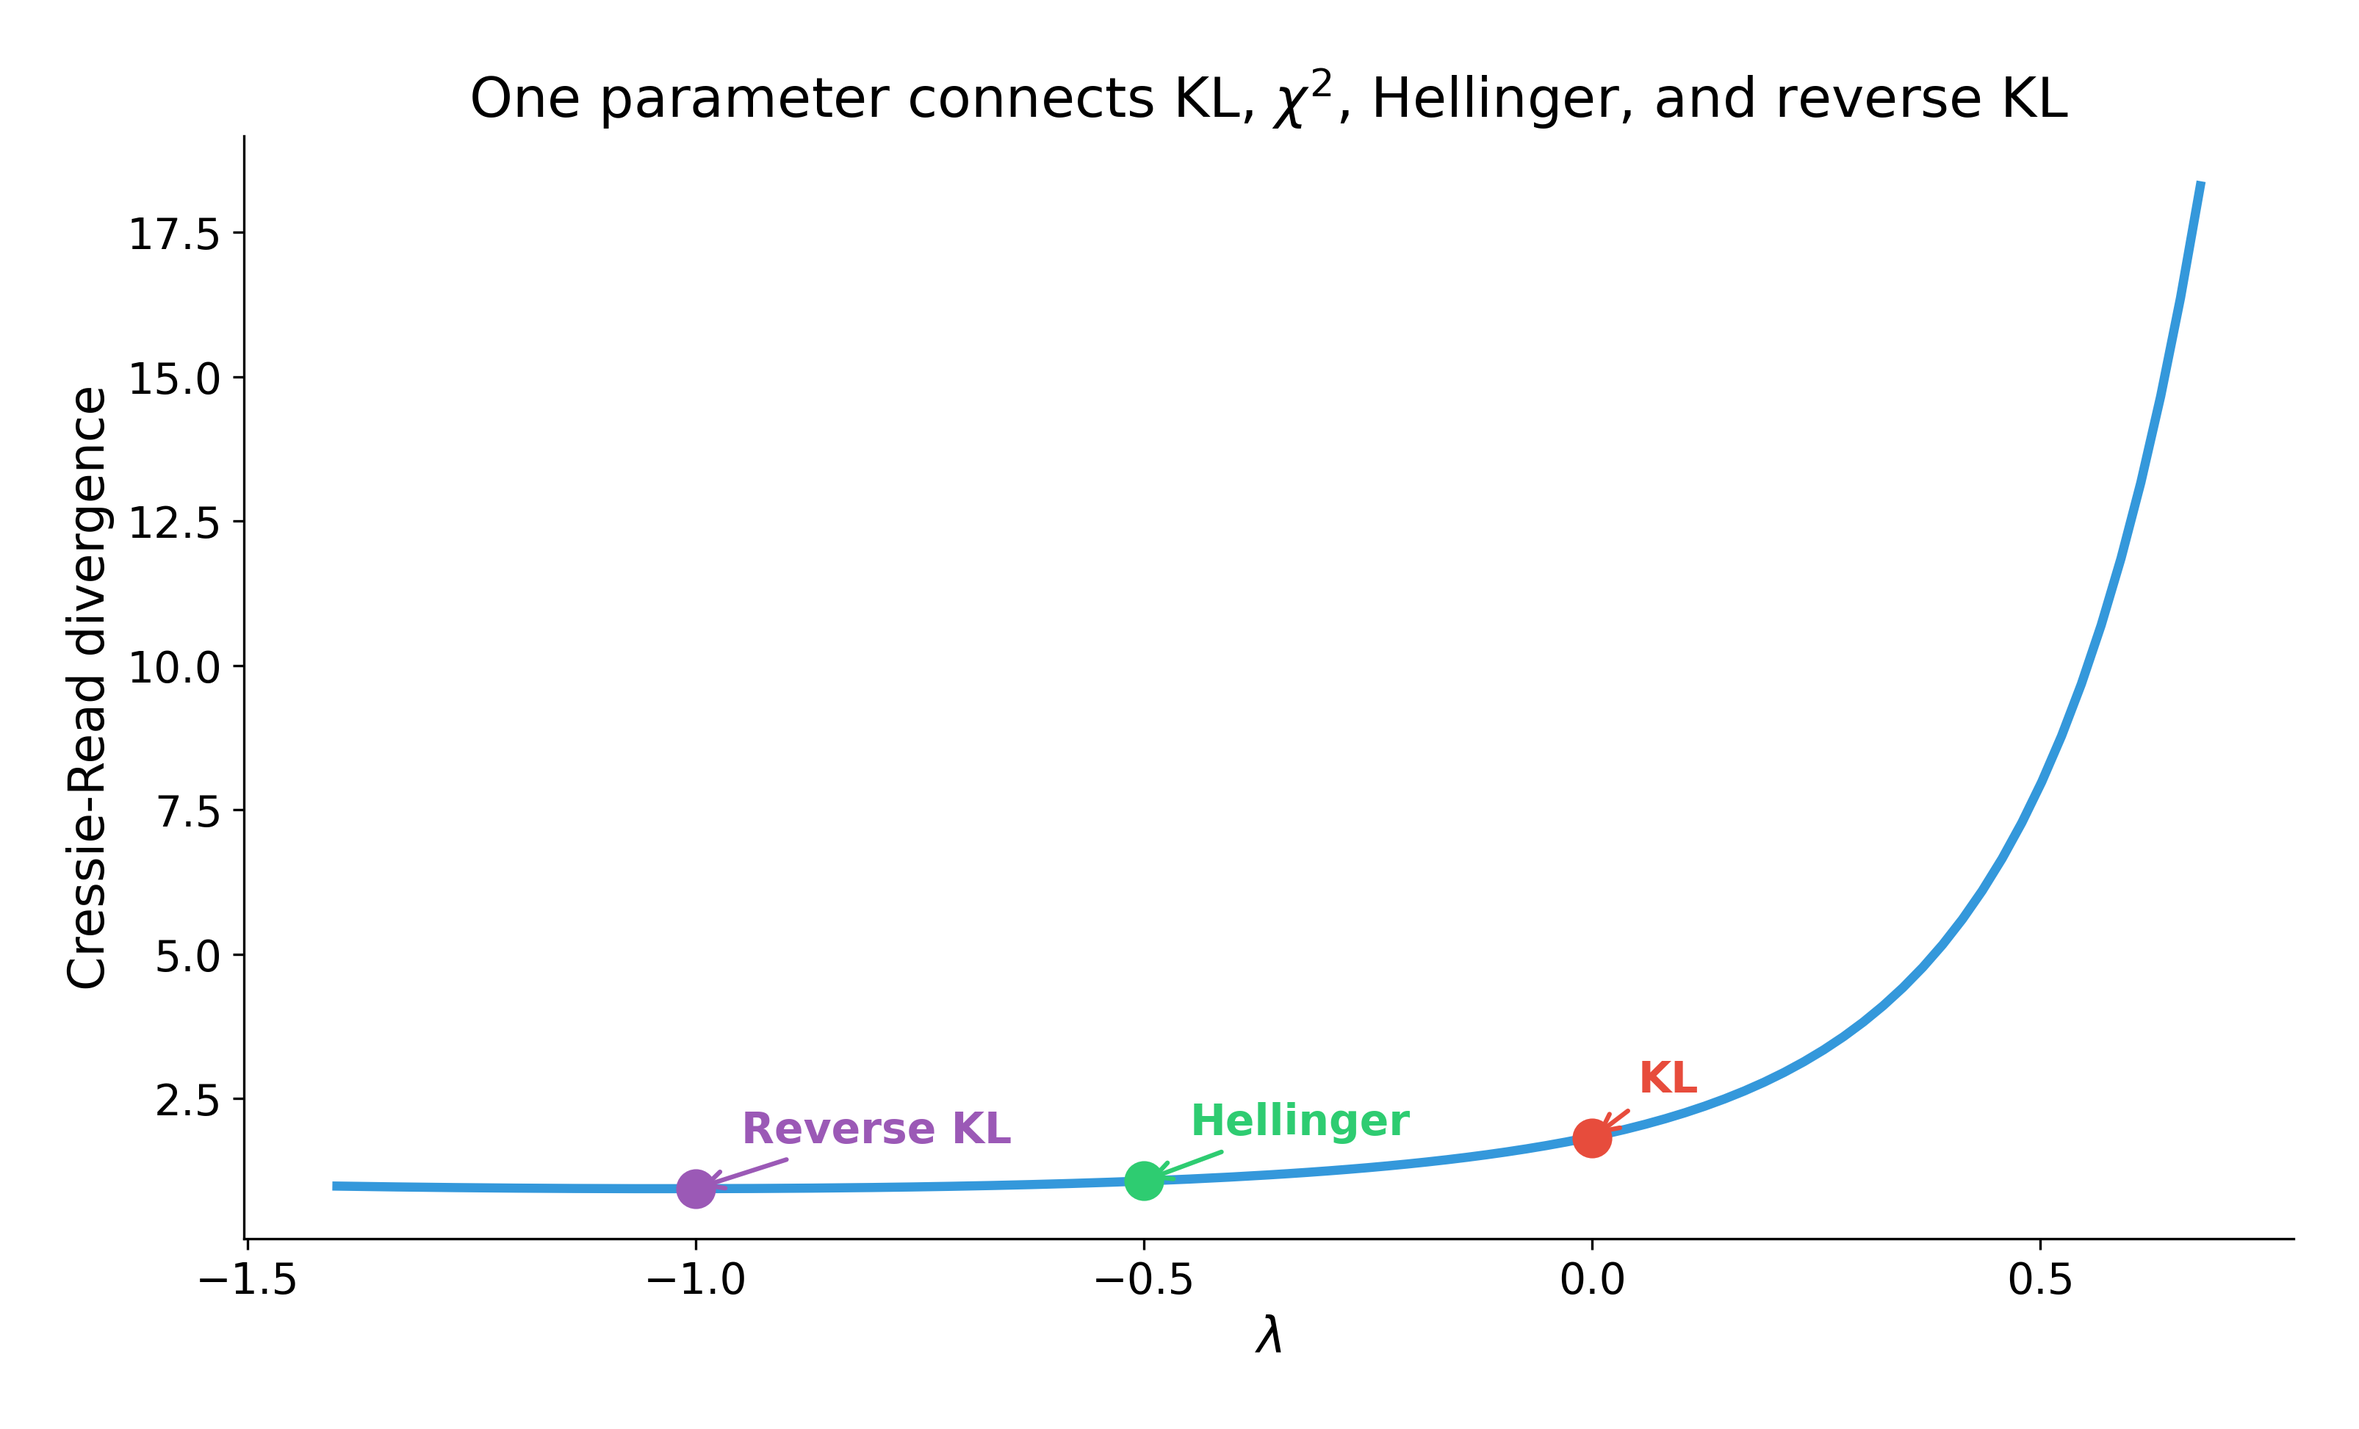
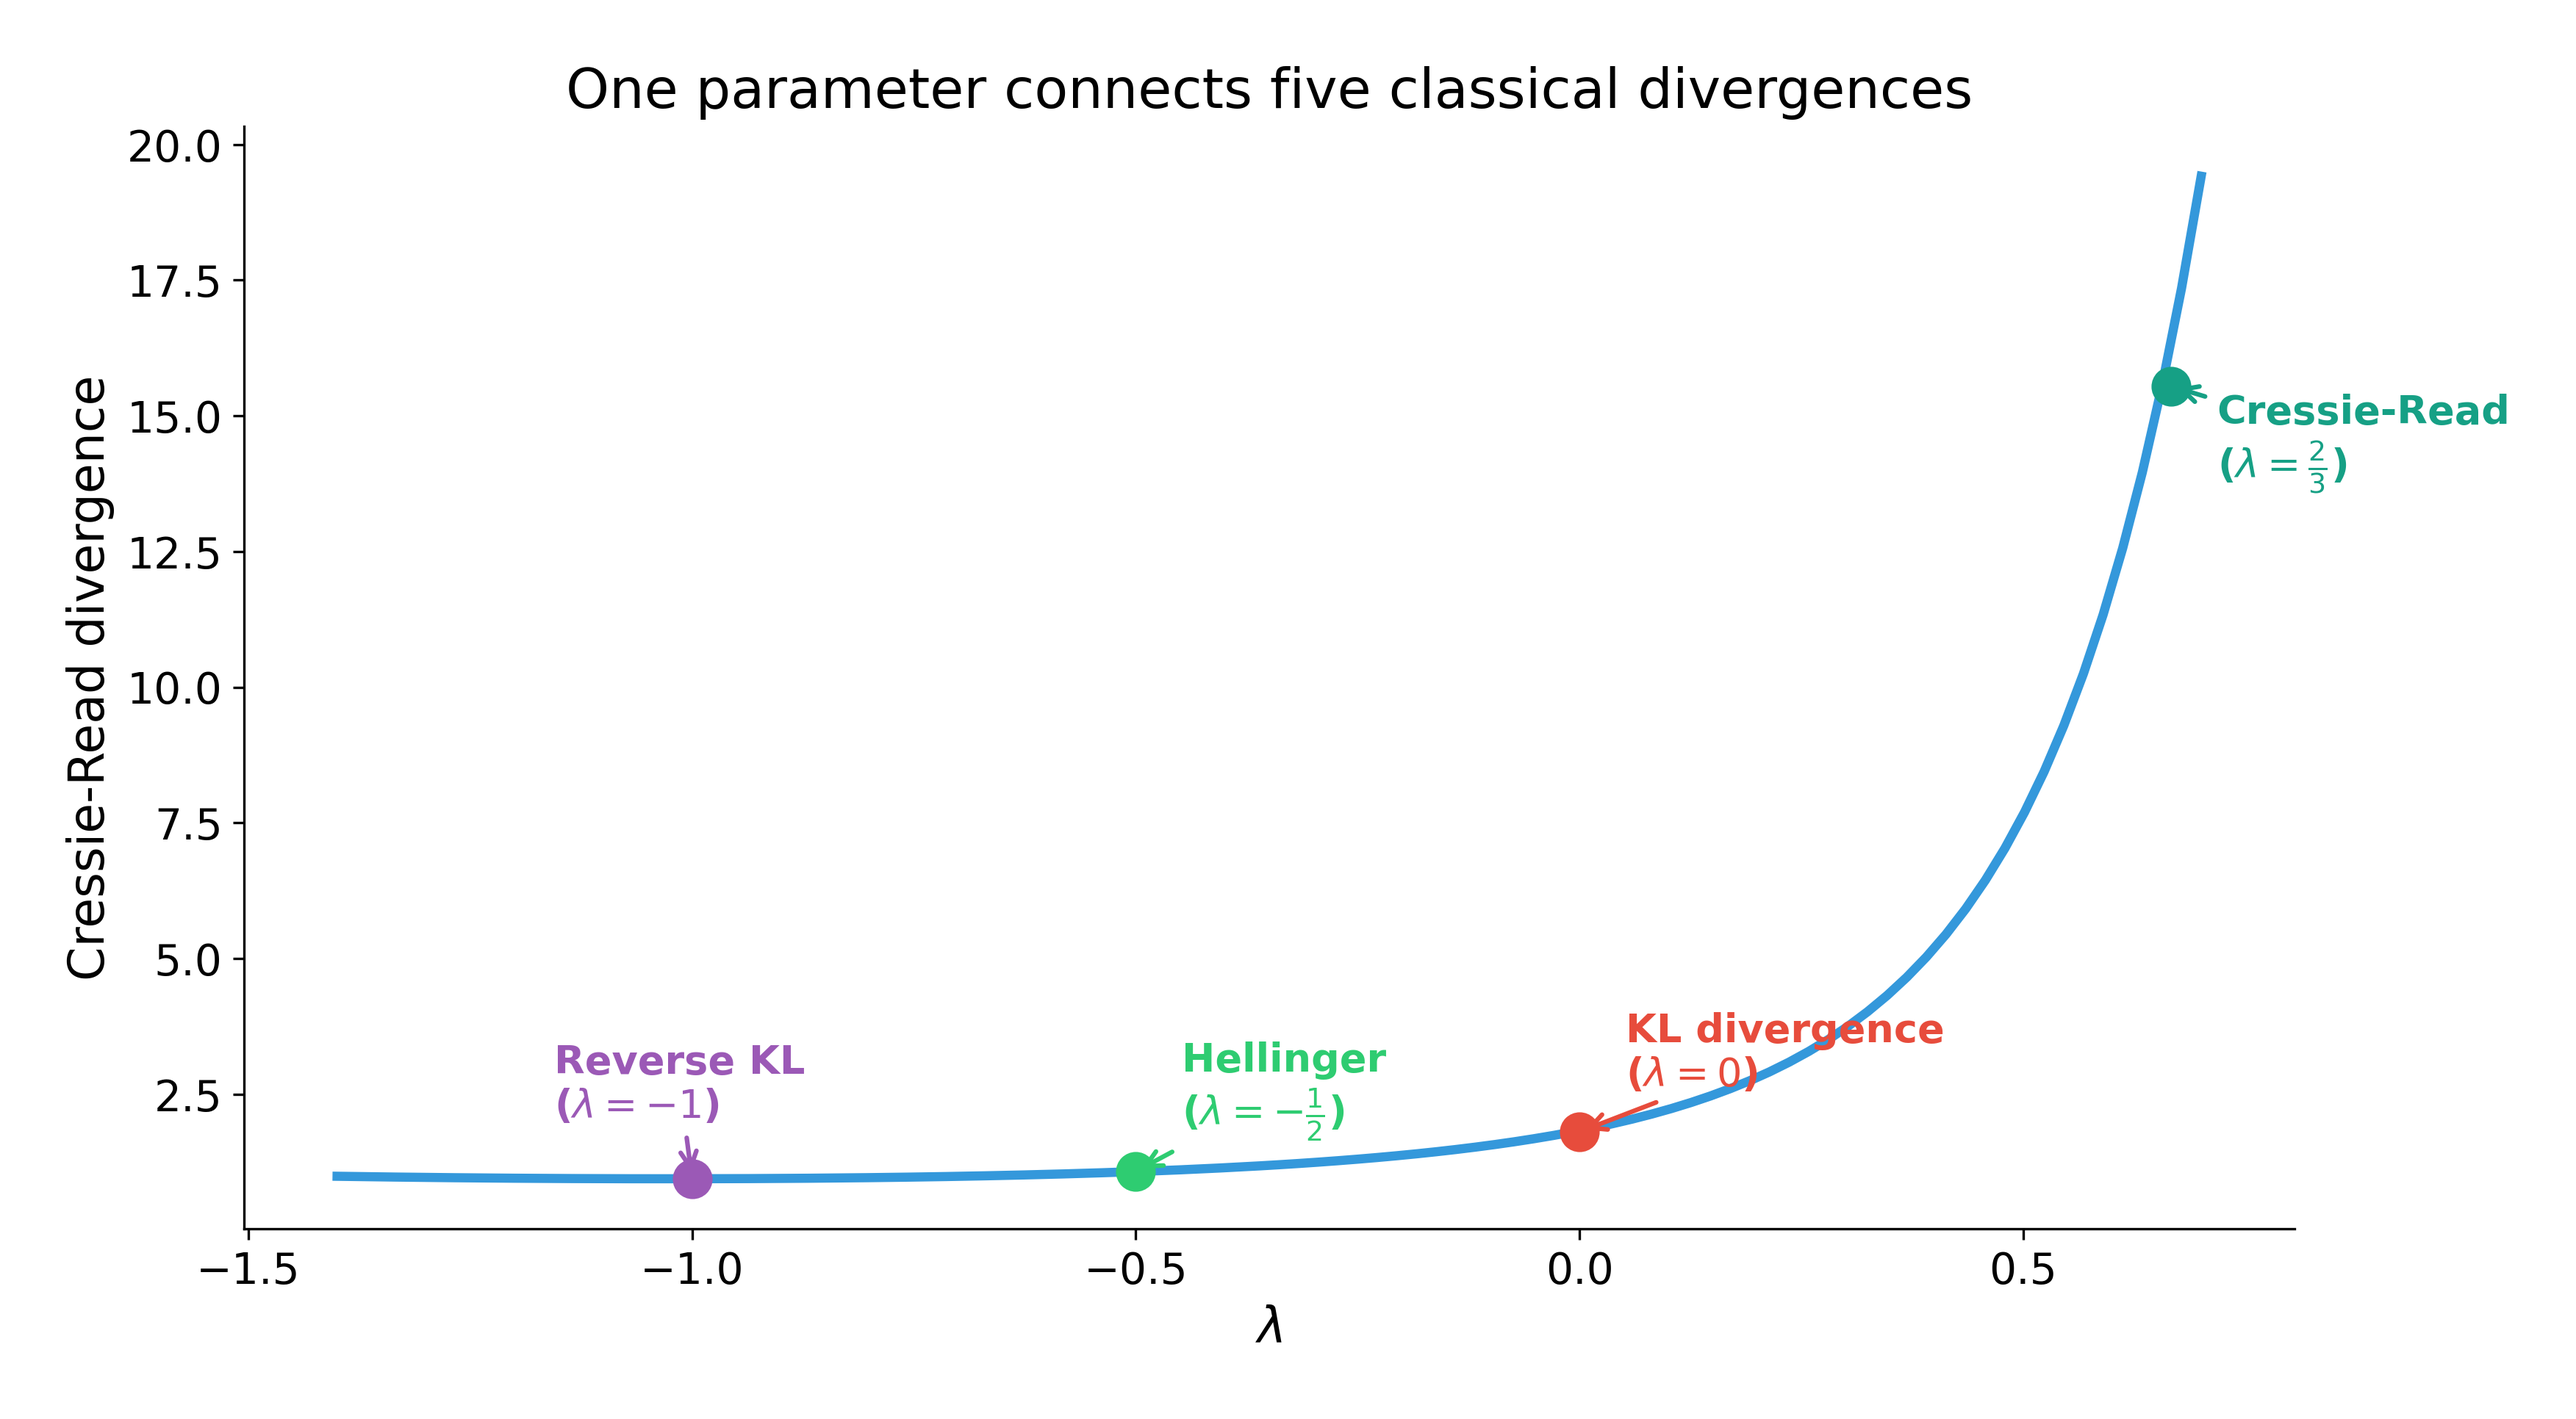
Fix Neyman -> Pearson chi-squared at lambda=1 in Cressie-Read
Mathematical verification: CR at lambda=1 gives f(t) = (t-1)^2/2,
which is Pearson chi-squared / 2 (denominator q), NOT Neyman
(denominator p). Fixed in:
- f_divergences.py docstring
- Beyond_KL notebook plot label
- Article-ready figure (now shows all 5 special cases with labels)
- Article text (now includes lambda=2/3 Cressie-Read recommended value)

diff --git a/src/divergence/f_divergences.py b/src/divergence/f_divergences.py
@@ -604,7 +604,7 @@ def cressie_read_divergence(
     >>> from divergence import cressie_read_divergence
     >>> p = np.array([0, 0, 0, 1, 1, 2])
     >>> q = np.array([0, 1, 1, 1, 2, 2])
-    >>> cressie_read_divergence(p, q, lambda_param=1.0, discrete=True)  # Neyman chi^2
+    >>> cressie_read_divergence(p, q, lambda_param=1.0, discrete=True)  # Pearson chi^2 / 2
     0.1...
 
     References

diff --git a/article_x_foundations.md b/article_x_foundations.md
@@ -1,0 +1,159 @@
+# What does it mean to measure information?
+
+You flip a coin. How much did you learn?
+
+The answer is one bit. Not metaphorically — the unit is literally named after this. Binary digit. One coin flip, one bit of information.
+
+Roll a six-sided die: 2.58 bits. Read a letter of English text: about 1.1 bits, because after you see "q" you already know what's coming next. The language is redundant, and redundancy means less surprise.
+
+In 1948, a Bell Labs mathematician named Claude Shannon figured out how to put a number on this. He called the number entropy. His 38-page paper launched a field. Compression algorithms, error-correcting codes, cryptography, neuroscience, machine learning, the theory behind large language models — all of it traces back to Shannon's question: how do you measure surprise?
+
+I spent a long time looking for a clean, practical way to use these ideas in Python. The measures existed — scattered across textbooks, academic papers, and half a dozen packages with incompatible APIs. So I collected them into one place. The package is called Divergence, it's open-source, and this article is about the ideas inside it.
+
+---
+
+## Entropy: the quantity that measures uncertainty
+
+Shannon's entropy for a discrete distribution is:
+
+H = -Σ p(x) log p(x)
+
+Each outcome contributes its probability times the log of its probability. Rare events contribute more. Common events contribute less. The sum tells you how uncertain you are about what comes next.
+
+A fair coin: H = 1 bit. A loaded coin (90/10): H = 0.47 bits. You're less uncertain about the loaded coin because you can mostly predict it.
+
+Here's the part that trips people up. A completely random sequence — white noise, no structure, no patterns — has *maximum* entropy. A Shakespeare sonnet has low entropy because English is predictable. Random noise contains more information in the Shannon sense than anything meaningful you've ever read.
+
+This isn't a flaw. It's the point. Shannon's "information" means surprise, not meaning. Structured data is partially predictable, so each observation teaches you less. Random data is completely unpredictable, so every observation is maximally informative.
+
+```python
+from divergence import entropy
+h = entropy(samples)
+```
+
+[IMAGE: divergence/two_distributions.png]
+
+---
+
+## KL divergence: the penalty for using the wrong model
+
+Suppose you're compressing data. Your data comes from distribution P, but you designed your compression code for distribution Q. How much space do you waste?
+
+The answer is the Kullback-Leibler divergence, D_KL(P || Q). It measures the extra cost — in bits or nats — of encoding P using Q's code. If P and Q are identical, the cost is zero. If they differ, you pay.
+
+(If you've seen "perplexity" in NLP papers: that's just exponentiated cross-entropy. A language model with cross-entropy of 5.6 bits has perplexity 2^5.6 ≈ 49 — it's as confused as if it were choosing uniformly among 49 words at each position. Same idea, different scale.)
+
+Solomon Kullback and Richard Leibler were cryptanalysts at the NSA in 1951, working on the mathematics of distinguishing one message source from another. Was this intercepted signal random noise, or did it contain a hidden pattern? Their divergence gives a precise answer: how much evidence does the data provide that P and Q are different?
+
+Decades later, Bayesian statisticians realized that KL divergence is exactly the information gained by updating from a prior to a posterior. The cryptanalysts' wartime tool and the Bayesian's measure of learning turned out to be the same equation.
+
+One thing to know: KL divergence is not symmetric. D_KL(P || Q) ≠ D_KL(Q || P). Encoding P with Q's code is a different problem from encoding Q with P's code. This asymmetry is both a feature and a limitation — it motivates everything that comes next.
+
+---
+
+## The family you didn't know existed
+
+For decades, people treated KL divergence, chi-squared, total variation, and Hellinger distance as separate tools with separate histories. Karl Pearson introduced chi-squared in 1900 for goodness-of-fit testing. Ernst Hellinger defined his distance in 1909 for a problem in functional analysis. Total variation comes from measure theory. KL divergence from cryptography.
+
+In 1963, a Hungarian mathematician named Imre Csiszár proved they're all the same thing.
+
+Every one of these measures is an f-divergence: D_f(P || Q) = Σ q(x) · f(p(x)/q(x)), where f is a convex function. Change f and you get a different divergence. Set f(t) = t log t and you get KL. Set f(t) = (t-1)² and you get chi-squared. Set f(t) = (√t - 1)² and you get Hellinger. Set f(t) = |t-1|/2 and you get total variation.
+
+Different functions of the same density ratio. Each one emphasizes different kinds of distributional mismatch. KL is sensitive to where P has mass and Q doesn't. Chi-squared amplifies large density ratios. Hellinger is gentler — more robust to outliers. Total variation measures the largest possible difference in probability assigned to any event.
+
+[IMAGE: beyond_kl/generator_functions.png]
+
+But the real surprise came in 1984. Noel Cressie and Timothy Read showed that you can parameterize the entire family with a single number λ:
+
+CR_λ(P || Q) = (1 / λ(λ+1)) Σ p(x) [(p(x)/q(x))^λ - 1]
+
+Set λ = -1: reverse KL. Set λ = -1/2: Hellinger. Set λ = 0: KL divergence. Set λ = 2/3: the value Cressie and Read themselves recommended for goodness-of-fit testing. Set λ = 1: Pearson chi-squared. One formula. One parameter. A smooth continuum connecting measures that had been treated as unrelated for the better part of a century.
+
+[IMAGE: cressie_read_continuum.png]
+
+That plot is one of my favorite things in all of statistics. Five labeled points on a smooth curve, each one a divergence that somebody invented independently, each one a special case of the same equation.
+
+```python
+from divergence import cressie_read_divergence
+cr = cressie_read_divergence(p, q, lambda_param=0.0)  # KL at lambda=0
+```
+
+---
+
+## Rényi's telescope
+
+Alfréd Rényi presented his generalization at the Fourth Berkeley Symposium in 1961. Where Shannon defined one entropy, Rényi defined a family indexed by a parameter α:
+
+H_α(X) = (1 / (1-α)) log Σ p(x)^α
+
+The parameter α acts like a focusing dial. Turn it one way and you count outcomes. Turn it the other and you zoom in on the peak.
+
+- α → 0: Hartley entropy. Just counts how many outcomes are possible, ignoring their probabilities.
+- α → 1: Shannon entropy. The familiar average surprise.
+- α = 2: Collision entropy. The probability that two independent draws give the same outcome.
+- α → ∞: Min-entropy. Determined entirely by the single most likely event. Used in cryptography because it measures the worst case for an attacker.
+
+Rényi entropy is monotonically non-increasing in α. As you increase the parameter, you focus more on the high-probability events and the entropy drops. Every value of α gives you a different view of the same distribution.
+
+[IMAGE: beyond_kl/renyi_entropy_alpha.png]
+
+The four special cases are marked on the curve. You can watch Shannon entropy sitting between Hartley (the generous view) and min-entropy (the paranoid view).
+
+```python
+from divergence import renyi_entropy
+h_shannon = renyi_entropy(samples, alpha=1.0)
+h_min = renyi_entropy(samples, alpha=100.0)
+```
+
+---
+
+## Mutual information: what correlation misses
+
+Correlation measures linear association. If the relationship between X and Y is a straight line plus noise, correlation captures it well. If the relationship is nonlinear, correlation can return zero even when X completely determines Y.
+
+Mutual information measures all statistical dependence. Linear, nonlinear, monotonic, non-monotonic. If knowing X tells you anything at all about Y, mutual information is positive.
+
+The standard demonstration: generate Y = sin(2πX) + noise. Pearson correlation is near zero because the positive and negative half-cycles cancel. KSG mutual information (a kNN-based estimator developed by Kraskov, Stögbauer, and Grassberger in 2004) picks up the dependence immediately.
+
+[IMAGE: distances_and_testing/correlation_vs_mutual_information.png]
+
+The practical consequence: if you're selecting features for a model using correlation, you could be discarding exactly the variables that carry the most information.
+
+```python
+from divergence import ksg_mutual_information
+mi = ksg_mutual_information(x, y, k=5)
+```
+
+---
+
+## What you can do with all of this
+
+The ideas above aren't just theory. Here's what they look like as tools:
+
+**Detect causal direction.** Transfer entropy measures directed information flow between time series. Applied to stock market data, it can tell you which market leads and which follows.
+
+**Test whether two samples come from the same distribution.** Formal two-sample permutation tests using energy distance or MMD, with calibrated p-values. No distributional assumptions required.
+
+**Check MCMC convergence beyond R-hat.** Distributional chain comparison that catches failures in shape and tail behavior, not just means and variances.
+
+**Measure what an experiment taught you.** Information gain (KL from prior to posterior) quantifies exactly how much the data updated your beliefs about each parameter.
+
+**Decompose prediction uncertainty.** Separate the noise you can't reduce from the model uncertainty that more data would fix.
+
+These are available in one Python package. 83 functions. Discrete and continuous. Works with ArviZ, PyMC, Stan, NumPyro, and emcee.
+
+```bash
+pip install divergence
+```
+
+Seven interactive notebooks walk through everything with real data, worked examples, and the stories of the people who built this mathematics:
+
+github.com/michaelnowotny/divergence
+
+---
+
+Shannon wrote his paper in 1948. Seventy-seven years later, most working scientists still reach for Pearson's r when they want to measure association and chi-squared when they want to compare distributions. These are good tools. They're also the narrowest members of families that contain dozens of alternatives, each with different strengths.
+
+The mathematics exists. It's been sitting in textbooks and journal papers for decades, waiting for someone to put it in one place. I think it's time more people had access to it.
+
+*Built by Michael Nowotny. MIT license. Docs at michaelnowotny.github.io/divergence*
